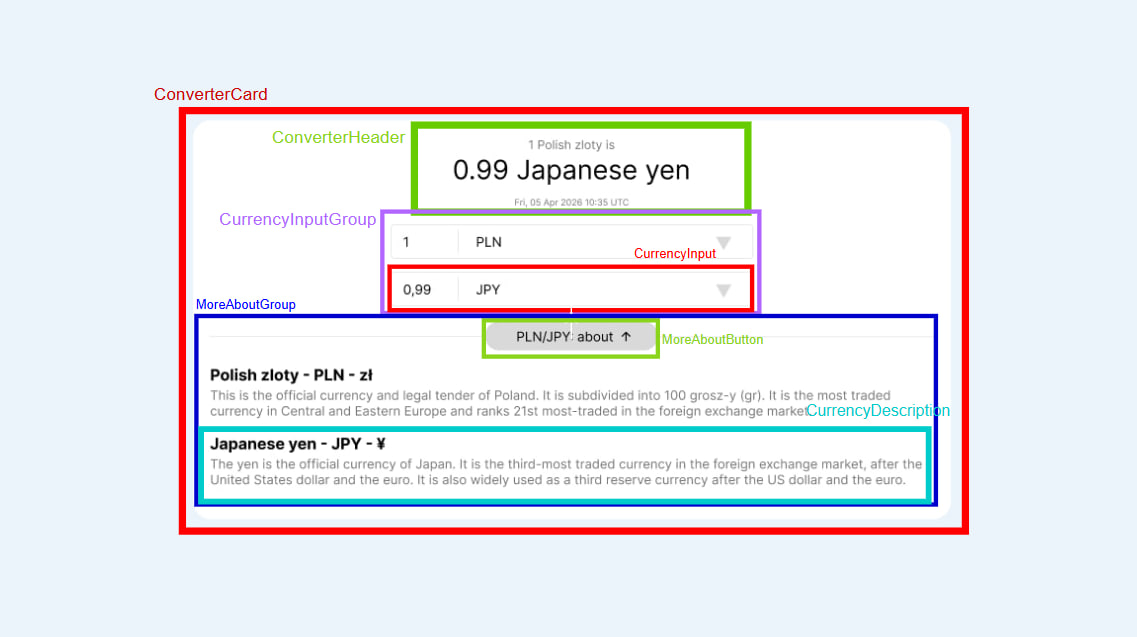
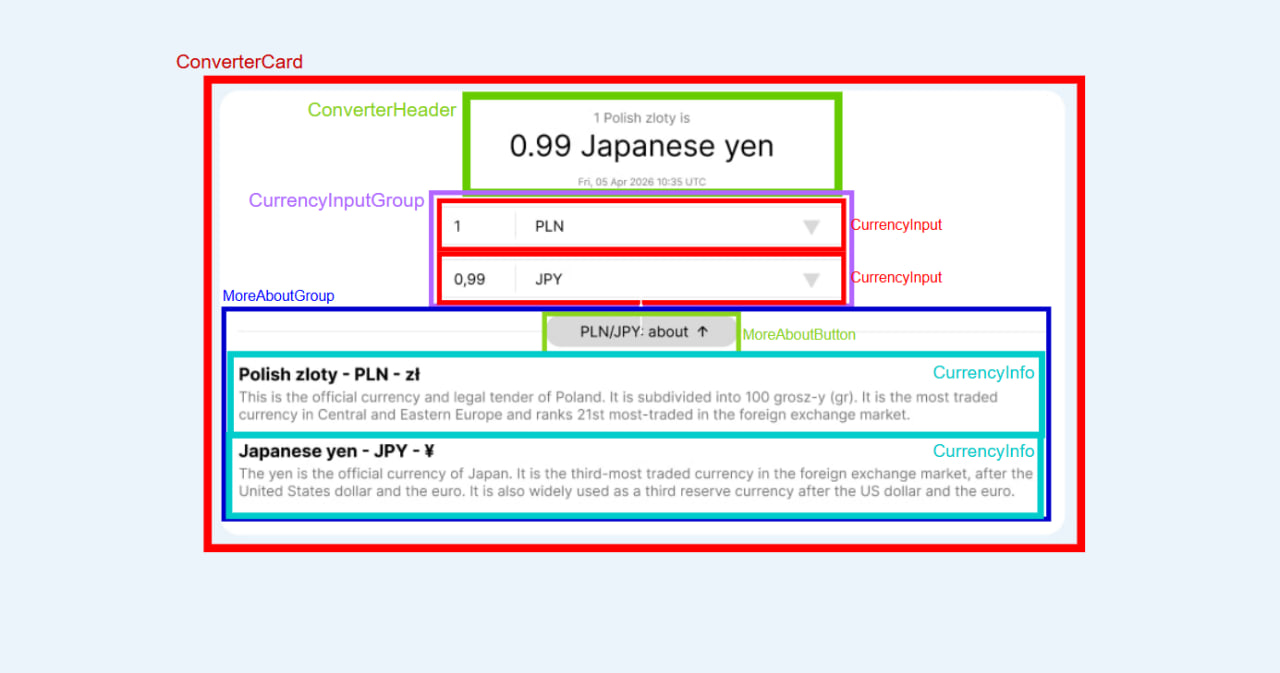
update code for review

Changed region(s): [[0.1231, 0.0597, 0.8619, 0.865]]

diff --git a/frontend/CurrencyConverter/client/src/components/MoreAboutGroup/MoreAboutGroup.test.tsx b/frontend/CurrencyConverter/client/src/components/MoreAboutGroup/MoreAboutGroup.test.tsx
@@ -1,29 +1,27 @@
 import { render, screen } from '@testing-library/react';
-import { MoreAboutGroup } from './MoreAboutGroup';
+import { MoreAboutGroup } from '.';
 
 describe('MoreAboutGroup', () => {
   it('render button with correct label', () => {
     render(<MoreAboutGroup />);
-    expect(screen.getByText('PLN/JPY: about')).toBeInTheDocument();
+    const button = screen.getByTestId('more-about-button');
+    expect(button).toBeInTheDocument();
+    expect(button).toHaveTextContent('PLN/JPY: about');
   });
 
   it('renders descriptions for PLN and JPY', () => {
     render(<MoreAboutGroup />);
-    expect(screen.getByText('Polish zloty - PLN - zł')).toBeInTheDocument();
-    expect(screen.getByText('Japanese yen - JPY - ¥')).toBeInTheDocument();
-  });
-
-  it('renders PLN description text', () => {
-    render(<MoreAboutGroup />);
-    expect(
-      screen.getByText(/This is the official currency and legal tender of Poland./),
-    ).toBeInTheDocument();
+    const description = screen.getByTestId('more-about-currency-pln');
+    expect(description).toBeInTheDocument();
+    expect(description).toHaveTextContent('Polish zloty - PLN - zł');
+    expect(description).toHaveTextContent(/This is the official currency and legal tender of Poland./);
   });
 
   it('renders JPY description text', () => {
     render(<MoreAboutGroup />);
-    expect(
-      screen.getByText(/The yen is the official currency of Japan/),
-    ).toBeInTheDocument();
+    const description = screen.getByTestId('more-about-currency-jpy');
+    expect(description).toBeInTheDocument();
+    expect(description).toHaveTextContent('Japanese yen - JPY - ¥');
+    expect(description).toHaveTextContent(/The yen is the official currency of Japan/);
   });
 });

diff --git a/frontend/CurrencyConverter/client/src/components/MoreAboutGroup/MoreAboutGroup.tsx b/frontend/CurrencyConverter/client/src/components/MoreAboutGroup/MoreAboutGroup.tsx
@@ -1,26 +1,26 @@
-import { CurrencyDescription } from "../CurrencyDescription/CurrencyDescription";
-import { MoreAboutButton } from "../MoreAboutButton/MoreAboutButton";
+import { MoreAboutCurrency } from "../MoreAboutCurrency";
+import { MoreAboutButton } from "../MoreAboutButton";
 import styles from './MoreAboutGroup.module.scss';
 
 const pln = {
   title: 'Polish zloty - PLN - zł',
-  description:
-    'This is the official currency and legal tender of Poland. It is subdivided into 100 grosz-y (gr). It is the most traded currency in Central and Eastern Europe and ranks 21st most-traded in the foreign exchange market. '
+  description: 'This is the official currency and legal tender of Poland. It is subdivided into 100 grosz-y (gr). It is the most traded currency in Central and Eastern Europe and ranks 21st most-traded in the foreign exchange market. ',
+  dataTestId: 'more-about-currency-pln'
 };
 
 const jpy = {
   title: 'Japanese yen - JPY - ¥',
-  description:
-    'The yen is the official currency of Japan. It is the third-most traded currency in the foreign exchange market, after the United States dollar and the euro. It is also widely used as a third reserve currency after the US dollar and the euro.'
+  description: 'The yen is the official currency of Japan. It is the third-most traded currency in the foreign exchange market, after the United States dollar and the euro. It is also widely used as a third reserve currency after the US dollar and the euro.',
+  dataTestId: 'more-about-currency-jpy'
 };
 
 export const MoreAboutGroup = () => {
     return (
         <div className={styles.info}>
-            <MoreAboutButton/>
+            <MoreAboutButton />
             <div className={styles.blocks}>
-                <CurrencyDescription title={pln.title} description={pln.description} />
-                <CurrencyDescription title={jpy.title} description={jpy.description} />
+                <MoreAboutCurrency dataTestId={pln.dataTestId} title={pln.title} description={pln.description} />
+                <MoreAboutCurrency dataTestId={jpy.dataTestId} title={jpy.title} description={jpy.description} />
             </div>
         </div>
     );

diff --git a/frontend/CurrencyConverter/client/src/components/MoreAboutCurrency/MoreAboutCurrency.tsx b/frontend/CurrencyConverter/client/src/components/MoreAboutCurrency/MoreAboutCurrency.tsx
@@ -1,0 +1,16 @@
+import styles from './MoreAboutCurrency.module.scss';
+
+type MoreAboutCurrencyProps = {
+  title: string;
+  description: string;
+  dataTestId?: string;
+};
+
+export const MoreAboutCurrency = ({title, description, dataTestId}: MoreAboutCurrencyProps) => {
+    return (
+        <div data-testid={dataTestId}>
+            <h3 className={styles.title}>{title}</h3>
+            <p className={styles.description}>{description}</p>
+        </div>
+    );
+};

diff --git a/frontend/CurrencyConverter/client/src/components/ConverterCard/ConverterCard.tsx b/frontend/CurrencyConverter/client/src/components/ConverterCard/ConverterCard.tsx
@@ -1,14 +1,14 @@
-import { ConverterHeader } from "../ConverterHeader/ConverterHeader";
-import { MoreAboutGroup } from "../MoreAboutGroup/MoreAboutGroup";
-import { CurrencyInputGroup } from "../CurrencyInputGroup/CurrencyInputGroup";
+import { ConverterHeader } from "../ConverterHeader";
+import { MoreAboutGroup } from "../MoreAboutGroup";
+import { CurrencyInputGroup } from "../CurrencyInputGroup";
 import styles from './ConverterCard.module.scss';
 
 export const ConverterCard = () => {
     return (
         <div className={styles.card}>
-            <ConverterHeader/>
-            <CurrencyInputGroup/>
-            <MoreAboutGroup/>
+            <ConverterHeader />
+            <CurrencyInputGroup />
+            <MoreAboutGroup />
         </div>
     );
 };

diff --git a/frontend/CurrencyConverter/client/src/components/CurrencyInputGroup/CurrencyInputGroup.tsx b/frontend/CurrencyConverter/client/src/components/CurrencyInputGroup/CurrencyInputGroup.tsx
@@ -1,4 +1,4 @@
-import { CurrencyInput } from "../CurrencyInput/CurrencyInput";
+import { CurrencyInput } from "../CurrencyInput";
 import styles from './CurrencyInputGroup.module.scss';
 
 const currencies = ['CAD', 'PLN', 'AUD', 'JPY', 'ZAR'];
@@ -8,8 +8,8 @@ const to = { amount: '0,99', code: 'JPY' };
 export const CurrencyInputGroup = () => {
     return (
         <div className={styles.group}>
-            <CurrencyInput amount={from.amount} currencyCode={from.code} currencies={currencies}/>
-            <CurrencyInput amount={to.amount} currencyCode={to.code} currencies={currencies}/>
+            <CurrencyInput amount={from.amount} currencyCode={from.code} currencies={currencies} />
+            <CurrencyInput amount={to.amount} currencyCode={to.code} currencies={currencies} />
         </div>
     );
 };

diff --git a/frontend/CurrencyConverter/client/src/index.scss b/frontend/CurrencyConverter/client/src/index.scss
@@ -1,0 +1,5 @@
+* {
+  box-sizing: border-box;
+  margin: 0;
+  padding: 0;
+}

diff --git a/frontend/CurrencyConverter/client/src/components/CurrencyInput/CurrencyInput.tsx b/frontend/CurrencyConverter/client/src/components/CurrencyInput/CurrencyInput.tsx
@@ -1,6 +1,6 @@
 import styles from './CurrencyInput.module.scss';
 
-interface CurrencyInputProps {
+type CurrencyInputProps = {
   amount: string;
   currencyCode: string;
   currencies: string[];
@@ -10,7 +10,7 @@ export const CurrencyInput = ({ amount, currencyCode, currencies }: CurrencyInpu
   return (
     <div className={styles.row}>
         <input className={styles.amount} type="text" value={amount} />
-        <hr className={styles.divider}/>
+        <hr className={styles.divider} />
         <select className={styles.select} value={currencyCode}>
             {currencies.map((currency, id) => (
                 <option key={id} value={currency}>

diff --git a/frontend/CurrencyConverter/client/src/components/MoreAboutButton/MoreAboutButton.tsx b/frontend/CurrencyConverter/client/src/components/MoreAboutButton/MoreAboutButton.tsx
@@ -7,8 +7,8 @@ export const MoreAboutButton = () => {
     return (
         <div className={styles.wrapper}>
             <hr className={styles.line} />
-            <button type="button" className={styles.button}>
-                {label} <img src={arrow} alt="" className={styles.arrow}/>
+            <button type="button" data-testid="more-about-button" className={styles.button}>
+                {label} <img src={arrow} alt="" className={styles.arrow} />
             </button>
         </div>
     );

diff --git a/frontend/CurrencyConverter/client/src/main.tsx b/frontend/CurrencyConverter/client/src/main.tsx
@@ -1,7 +1,7 @@
 import { StrictMode } from 'react'
 import { createRoot } from 'react-dom/client'
-import './index.css'
-import { App } from './App.tsx'
+import './index.scss'
+import { App } from './components/App'
 
 createRoot(document.getElementById('root')!).render(
   <StrictMode>

diff --git a/frontend/CurrencyConverter/client/src/components/App/index.ts b/frontend/CurrencyConverter/client/src/components/App/index.ts
@@ -1,0 +1,1 @@
+export { App } from './App';

diff --git a/frontend/CurrencyConverter/client/src/components/ConverterCard/index.ts b/frontend/CurrencyConverter/client/src/components/ConverterCard/index.ts
@@ -1,0 +1,1 @@
+export { ConverterCard } from './ConverterCard';

diff --git a/frontend/CurrencyConverter/client/src/components/ConverterHeader/index.ts b/frontend/CurrencyConverter/client/src/components/ConverterHeader/index.ts
@@ -1,0 +1,1 @@
+export { ConverterHeader } from './ConverterHeader';